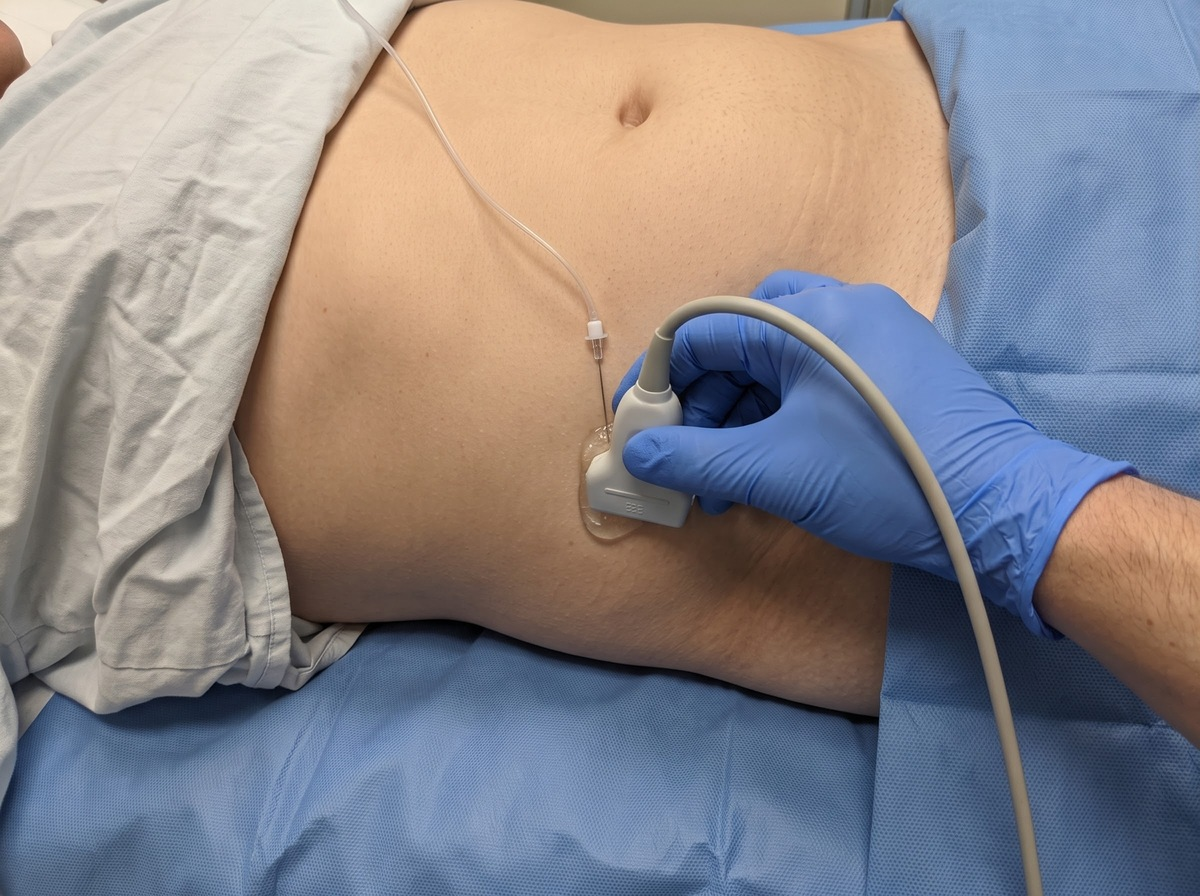
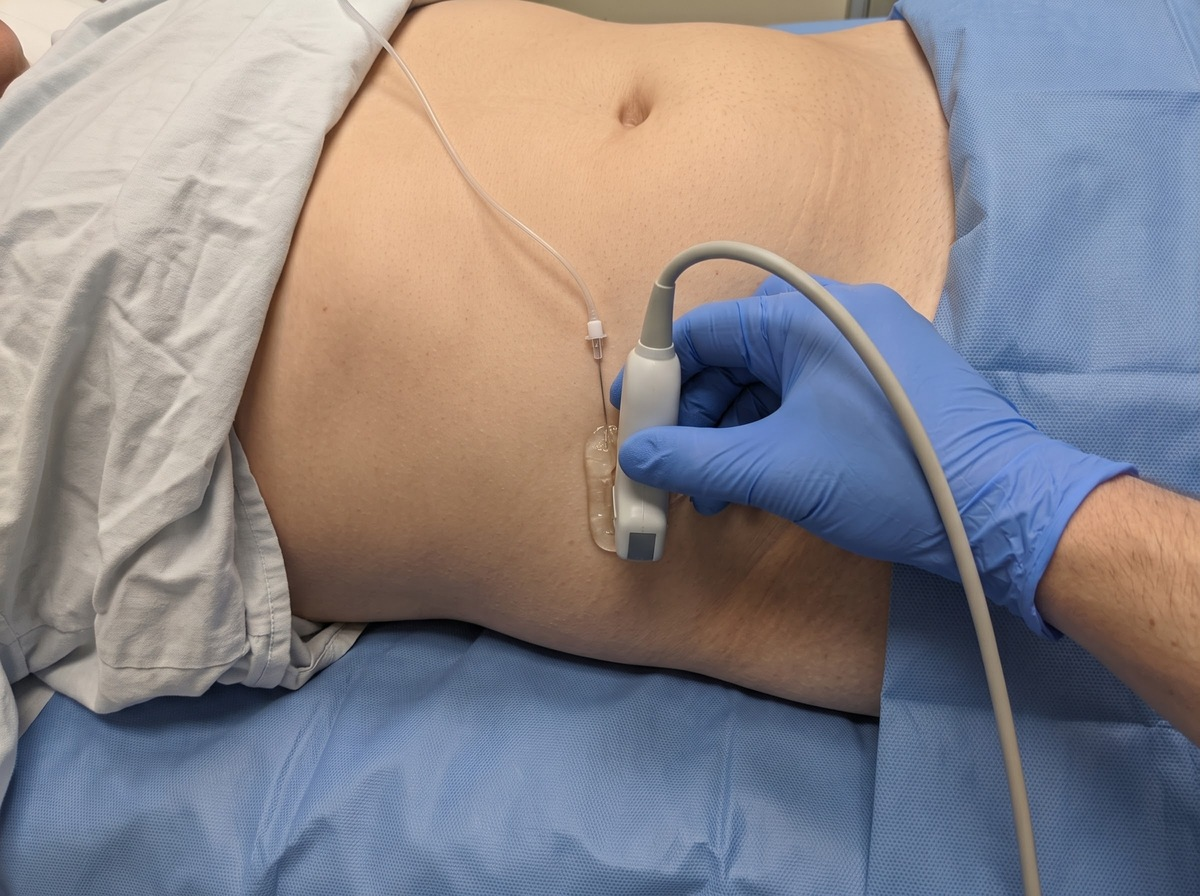
Ship ulnar positioning (owner approved); transgluteal subgluteal section and TAP positioning with the probe rotated transverse (review drafts)

diff --git a/visuals/transgluteal_anatomy/draw.py b/visuals/transgluteal_anatomy/draw.py
@@ -100,7 +100,7 @@ def build() -> str:
     nerve = c(NERVE[0])
     labels = [
         Label(["Gluteus maximus"], anchor=(1060, 470), leader=[(1050, 454), (980, 454)], target_id="gm"),
-        Label(["Biceps femoris"], anchor=(40, 760), leader=[(250, 700), (300, 560)], target_id="bf"),
+        Label(["Biceps femoris"], anchor=(40, 760), leader=[(180, 700), (160, 640)], target_id="bf"),
         Label(["Sciatic nerve"], anchor=(560, 830), leader=[(700, 790), (nerve[0] - 20, nerve[1] + 6)], target_id="nerve", emphasis=True),
         Label(["Adductor magnus"], anchor=(560, 1080), leader=[(760, 1040), (800, 940)], target_id="am"),
     ]
